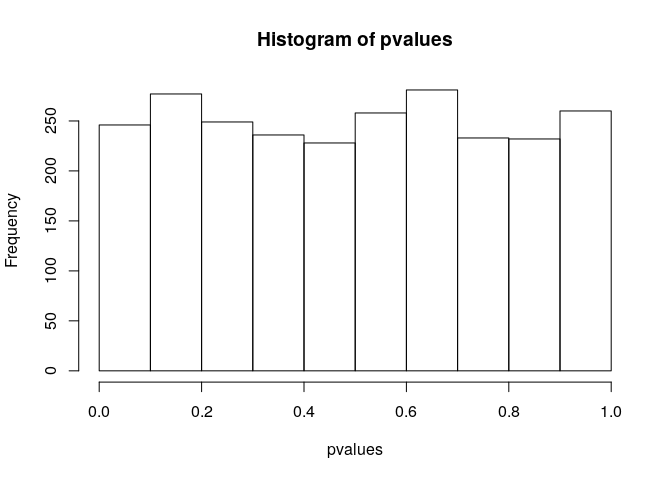
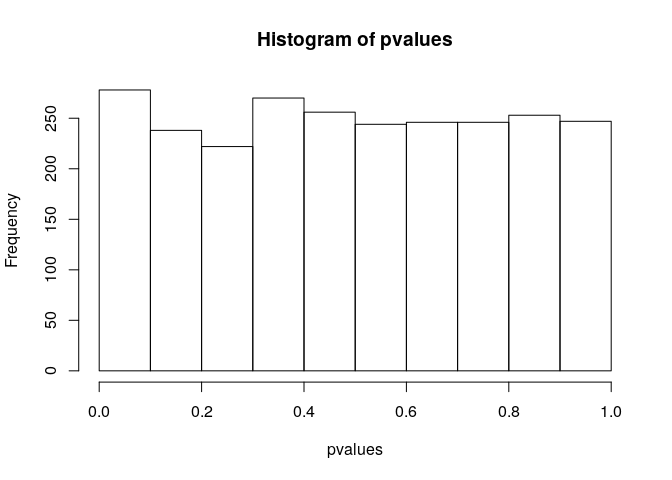
Small edits linalg

diff --git a/docs/lectures/linalg_basics.md b/docs/lectures/linalg_basics.md
@@ -43,23 +43,31 @@ Linear algebra is intimately tied to linear equations, that is, to equations whe
 The situation gets more interesting when multiple variables are involved, with multiple equations, for example:
 
 ![
-4x - 3y = 5 \\\\
- -x + 2y = 10
-](https://latex.codecogs.com/png.latex?%0A4x%20-%203y%20%3D%205%20%5C%5C%0A%20-x%20%2B%202y%20%3D%2010%0A "
-4x - 3y = 5 \\
- -x + 2y = 10
+\\begin{aligned}
+4x - 3y &= 5 \\\\
+ -x + 2y &= 10
+ \\end{aligned}
+](https://latex.codecogs.com/png.latex?%0A%5Cbegin%7Baligned%7D%0A4x%20-%203y%20%26%3D%205%20%5C%5C%0A%20-x%20%2B%202y%20%26%3D%2010%0A%20%5Cend%7Baligned%7D%0A "
+\begin{aligned}
+4x - 3y &= 5 \\
+ -x + 2y &= 10
+ \end{aligned}
 ")
 
 There are multiple ways to solve this, for example solving one equation for one variable in terms of the other, then substituting it into the second equation to obtain a one-variable problem. A more general approach involves writing this problem in terms of a matrix ![\\mathbf A](https://latex.codecogs.com/png.latex?%5Cmathbf%20A "\mathbf A") that contains the multiplicative constants of ![x](https://latex.codecogs.com/png.latex?x "x") and ![y](https://latex.codecogs.com/png.latex?y "y") and a vector ![\\vec b](https://latex.codecogs.com/png.latex?%5Cvec%20b "\vec b") that contains the right-hand side constants:
 
 ![
-\\mathbf{A} = \\begin{pmatrix} 4 & -3 \\\\ -1 & 2 \\end{pmatrix} \\; \\vec{b} = \\begin{pmatrix}5 \\\\ 10 \\end{pmatrix} \\;
+\\begin{aligned}
+\\mathbf{A} = \\begin{pmatrix} 4 & -3 \\\\ -1 & 2 \\end{pmatrix} \\;\\;\\; \\vec{b} = \\begin{pmatrix}5 \\\\ 10 \\end{pmatrix} &\\;\\;\\;
 \\vec{x} = \\begin{pmatrix} x \\\\ y \\end{pmatrix} \\\\
-\\mathbf{A} \\vec x = \\vec b
-](https://latex.codecogs.com/png.latex?%0A%5Cmathbf%7BA%7D%20%3D%20%5Cbegin%7Bpmatrix%7D%204%20%26%20-3%20%5C%5C%20-1%20%26%202%20%5Cend%7Bpmatrix%7D%20%5C%3B%20%5Cvec%7Bb%7D%20%3D%20%5Cbegin%7Bpmatrix%7D5%20%5C%5C%2010%20%5Cend%7Bpmatrix%7D%20%5C%3B%0A%5Cvec%7Bx%7D%20%3D%20%5Cbegin%7Bpmatrix%7D%20x%20%5C%5C%20y%20%5Cend%7Bpmatrix%7D%20%5C%5C%0A%5Cmathbf%7BA%7D%20%5Cvec%20x%20%3D%20%5Cvec%20b%0A "
-\mathbf{A} = \begin{pmatrix} 4 & -3 \\ -1 & 2 \end{pmatrix} \; \vec{b} = \begin{pmatrix}5 \\ 10 \end{pmatrix} \;
+\\mathbf{A} \\vec x = \\vec b &
+\\end{aligned}
+](https://latex.codecogs.com/png.latex?%0A%5Cbegin%7Baligned%7D%0A%5Cmathbf%7BA%7D%20%3D%20%5Cbegin%7Bpmatrix%7D%204%20%26%20-3%20%5C%5C%20-1%20%26%202%20%5Cend%7Bpmatrix%7D%20%5C%3B%5C%3B%5C%3B%20%5Cvec%7Bb%7D%20%3D%20%5Cbegin%7Bpmatrix%7D5%20%5C%5C%2010%20%5Cend%7Bpmatrix%7D%20%26%5C%3B%5C%3B%5C%3B%0A%5Cvec%7Bx%7D%20%3D%20%5Cbegin%7Bpmatrix%7D%20x%20%5C%5C%20y%20%5Cend%7Bpmatrix%7D%20%5C%5C%0A%5Cmathbf%7BA%7D%20%5Cvec%20x%20%3D%20%5Cvec%20b%20%26%0A%5Cend%7Baligned%7D%0A "
+\begin{aligned}
+\mathbf{A} = \begin{pmatrix} 4 & -3 \\ -1 & 2 \end{pmatrix} \;\;\; \vec{b} = \begin{pmatrix}5 \\ 10 \end{pmatrix} &\;\;\;
 \vec{x} = \begin{pmatrix} x \\ y \end{pmatrix} \\
-\mathbf{A} \vec x = \vec b
+\mathbf{A} \vec x = \vec b &
+\end{aligned}
 ")
 
  This now looks analogous to the one-variable equation above, which we solved by dividing both sides by the multiple of ![x](https://latex.codecogs.com/png.latex?x "x"). The difficulty is that matrix operations are more complicated than scalar multiplication and division. Matrix multiplication is used in the equation above to multiply all the coefficients in the matrix by their respective variables, which involves a relatively complicated [procedure in general](https://en.wikipedia.org/wiki/Matrix_multiplication).
@@ -67,9 +75,9 @@ There are multiple ways to solve this, for example solving one equation for one 
 The "division" equivalent is called [matrix inversion](https://en.wikipedia.org/wiki/Invertible_matrix) and it is even more complicated. First, we need to define the identity matrix, or the equivalent of the number 1 for matrix multiplication. The identity matrix is defined only for square matrices (equal number of rows and columns), so a size ![n](https://latex.codecogs.com/png.latex?n "n") by ![n](https://latex.codecogs.com/png.latex?n "n") idenitity matrix is define to have all 1s on the diagonal and all zeros on the off-diagonal:
 
 ![
-I = \\begin{pmatrix} 1 & 0 & \\dots & 0 \\\\ 0 & 1  &\\dots & 0 \\\\ \\vdots & \\vdots & & \\vdots \\\\ 0 & 0 &\\dots & 1\\end{pmatrix}
-](https://latex.codecogs.com/png.latex?%0AI%20%3D%20%5Cbegin%7Bpmatrix%7D%201%20%26%200%20%26%20%5Cdots%20%26%200%20%5C%5C%200%20%26%201%20%20%26%5Cdots%20%26%200%20%5C%5C%20%5Cvdots%20%26%20%5Cvdots%20%26%20%26%20%5Cvdots%20%5C%5C%200%20%26%200%20%26%5Cdots%20%26%201%5Cend%7Bpmatrix%7D%0A "
-I = \begin{pmatrix} 1 & 0 & \dots & 0 \\ 0 & 1  &\dots & 0 \\ \vdots & \vdots & & \vdots \\ 0 & 0 &\dots & 1\end{pmatrix}
+I = \\begin{pmatrix} 1 & 0 & \\dots & 0 \\\\ 0 & 1  &\\dots & 0 \\\\ \\vdots & \\vdots & \\ddots & \\vdots \\\\ 0 & 0 &\\dots & 1\\end{pmatrix}
+](https://latex.codecogs.com/png.latex?%0AI%20%3D%20%5Cbegin%7Bpmatrix%7D%201%20%26%200%20%26%20%5Cdots%20%26%200%20%5C%5C%200%20%26%201%20%20%26%5Cdots%20%26%200%20%5C%5C%20%5Cvdots%20%26%20%5Cvdots%20%26%20%5Cddots%20%26%20%5Cvdots%20%5C%5C%200%20%26%200%20%26%5Cdots%20%26%201%5Cend%7Bpmatrix%7D%0A "
+I = \begin{pmatrix} 1 & 0 & \dots & 0 \\ 0 & 1  &\dots & 0 \\ \vdots & \vdots & \ddots & \vdots \\ 0 & 0 &\dots & 1\end{pmatrix}
 ")
 
  The identity matrix is special because multiplying any other matrix (of compatible size) by it results in the same exact matrix (this is easy to check on a couple of examples for 2 by 2 or 3 by 3 matrices):
@@ -102,7 +110,7 @@ In the cases in which the inverse matrix exists, the linear system of equations 
 
 ``` r
 A <- matrix(c(4,-1,-3,2), nrow = 2)
-b = c(5,10)
+b <- c(5,10)
 solve(A,b)
 ```
 
@@ -116,11 +124,15 @@ One geometric application of solving multiple linear equations is to find the co
 **Example:** If the data set consists of two points ![(3,5), (6, 2)](https://latex.codecogs.com/png.latex?%283%2C5%29%2C%20%286%2C%202%29 "(3,5), (6, 2)"), then finding the best fit values of ![m](https://latex.codecogs.com/png.latex?m "m") and ![b](https://latex.codecogs.com/png.latex?b "b") means solving the following two equations:
 
 ![
- 3m + b = 5 \\\\
- 6m + b = 2
-](https://latex.codecogs.com/png.latex?%0A%203m%20%2B%20b%20%3D%205%20%5C%5C%0A%206m%20%2B%20b%20%3D%202%0A "
- 3m + b = 5 \\
- 6m + b = 2
+\\begin{aligned}
+ 3m + b &= 5 \\\\
+ 6m + b &= 2
+\\end{aligned}
+](https://latex.codecogs.com/png.latex?%0A%5Cbegin%7Baligned%7D%0A%203m%20%2B%20b%20%26%3D%205%20%5C%5C%0A%206m%20%2B%20b%20%26%3D%202%0A%5Cend%7Baligned%7D%0A "
+\begin{aligned}
+ 3m + b &= 5 \\
+ 6m + b &= 2
+\end{aligned}
 ")
 
 These equations have a solution for the slope and intercept, which can be calculated in R using solve() and then plot the line witht e
@@ -142,13 +154,17 @@ However, a data set with two points is very small and nobody would accept these 
 **Bad idea:** take two points and find a line, that is the slope and the intercept, that passes through the two. It should be clear why this is a bad idea: we are arbitrarily ignoring some of the data, while perfectly fitting two points. So how do we use all the data? Let us write down the equations that a line with slope ![m](https://latex.codecogs.com/png.latex?m "m") and intercept ![b](https://latex.codecogs.com/png.latex?b "b") have to satisfy in order to fit our data points:
 
 ![
+\\begin{aligned}
 3m + b = 5 \\\\
 6m + b = 2\\\\
 9m + b = 1
-](https://latex.codecogs.com/png.latex?%0A3m%20%2B%20b%20%3D%205%20%5C%5C%0A6m%20%2B%20b%20%3D%202%5C%5C%0A9m%20%2B%20b%20%3D%201%0A "
+\\end{aligned}
+](https://latex.codecogs.com/png.latex?%0A%5Cbegin%7Baligned%7D%0A3m%20%2B%20b%20%3D%205%20%5C%5C%0A6m%20%2B%20b%20%3D%202%5C%5C%0A9m%20%2B%20b%20%3D%201%0A%5Cend%7Baligned%7D%0A "
+\begin{aligned}
 3m + b = 5 \\
 6m + b = 2\\
 9m + b = 1
+\end{aligned}
 ")
 
 This system has no exact solution, since there are three equations and only two unknowns. We need to find ![m](https://latex.codecogs.com/png.latex?m "m") and ![b](https://latex.codecogs.com/png.latex?b "b") such that they are a "best fit" to the data, not the perfect solution.
@@ -159,13 +175,17 @@ Least-squares line
 Let us write the equation in matrix form as follows:
 
 ![
-\\mathbf{A} = \\begin{pmatrix} 3 & 1 \\\\ 6 & 1 \\\\ 9 & 1 \\end{pmatrix} \\; \\vec{b} = \\begin{pmatrix}5 \\\\ 2 \\\\ 1 \\end{pmatrix} \\;
-\\vec{\\beta} = \\begin{pmatrix} m \\\\ b \\end{pmatrix} \\\\
-\\mathbf{A} \\vec \\beta = \\vec b
-](https://latex.codecogs.com/png.latex?%0A%5Cmathbf%7BA%7D%20%3D%20%5Cbegin%7Bpmatrix%7D%203%20%26%201%20%5C%5C%206%20%26%201%20%5C%5C%209%20%26%201%20%5Cend%7Bpmatrix%7D%20%5C%3B%20%5Cvec%7Bb%7D%20%3D%20%5Cbegin%7Bpmatrix%7D5%20%5C%5C%202%20%5C%5C%201%20%5Cend%7Bpmatrix%7D%20%5C%3B%0A%5Cvec%7B%5Cbeta%7D%20%3D%20%5Cbegin%7Bpmatrix%7D%20m%20%5C%5C%20b%20%5Cend%7Bpmatrix%7D%20%5C%5C%0A%5Cmathbf%7BA%7D%20%5Cvec%20%5Cbeta%20%3D%20%5Cvec%20b%0A "
-\mathbf{A} = \begin{pmatrix} 3 & 1 \\ 6 & 1 \\ 9 & 1 \end{pmatrix} \; \vec{b} = \begin{pmatrix}5 \\ 2 \\ 1 \end{pmatrix} \;
-\vec{\beta} = \begin{pmatrix} m \\ b \end{pmatrix} \\
-\mathbf{A} \vec \beta = \vec b
+\\begin{aligned}
+\\mathbf{A} = \\begin{pmatrix} 3 & 1 \\\\ 6 & 1 \\\\ 9 & 1 \\end{pmatrix} \\;\\;\\; \\vec{b} = \\begin{pmatrix}5 \\\\ 2 \\\\ 1 \\end{pmatrix} \\;\\;\\;
+\\vec{\\beta} = \\begin{pmatrix} m \\\\ b \\end{pmatrix} & \\\\
+\\mathbf{A} \\vec \\beta = \\vec b &
+\\end{aligned}
+](https://latex.codecogs.com/png.latex?%0A%5Cbegin%7Baligned%7D%0A%5Cmathbf%7BA%7D%20%3D%20%5Cbegin%7Bpmatrix%7D%203%20%26%201%20%5C%5C%206%20%26%201%20%5C%5C%209%20%26%201%20%5Cend%7Bpmatrix%7D%20%5C%3B%5C%3B%5C%3B%20%5Cvec%7Bb%7D%20%3D%20%5Cbegin%7Bpmatrix%7D5%20%5C%5C%202%20%5C%5C%201%20%5Cend%7Bpmatrix%7D%20%5C%3B%5C%3B%5C%3B%0A%5Cvec%7B%5Cbeta%7D%20%3D%20%5Cbegin%7Bpmatrix%7D%20m%20%5C%5C%20b%20%5Cend%7Bpmatrix%7D%20%26%20%5C%5C%0A%5Cmathbf%7BA%7D%20%5Cvec%20%5Cbeta%20%3D%20%5Cvec%20b%20%26%0A%5Cend%7Baligned%7D%0A "
+\begin{aligned}
+\mathbf{A} = \begin{pmatrix} 3 & 1 \\ 6 & 1 \\ 9 & 1 \end{pmatrix} \;\;\; \vec{b} = \begin{pmatrix}5 \\ 2 \\ 1 \end{pmatrix} \;\;\;
+\vec{\beta} = \begin{pmatrix} m \\ b \end{pmatrix} & \\
+\mathbf{A} \vec \beta = \vec b &
+\end{aligned}
 ")
 
 Mathematically, the problem is that one cannot invert a non-square matrix. However, there is a way of turning the matrix into a square one, by multiplying it by its own transpose (same matrix with rows and columns reversed):
@@ -424,7 +444,7 @@ The situation with eigenvectors is trickier. There are some matrices for which a
 
 To summarize, eigenvalues and eigenvectors of a matrix are a set of numbers and a set of vectors (up to scalar multiple) that describe the action of the matrix as a multiplicative operator on vectors. “Well-behaved” square ![n](https://latex.codecogs.com/png.latex?n "n") by ![n](https://latex.codecogs.com/png.latex?n "n") matrices have ![n](https://latex.codecogs.com/png.latex?n "n") distinct eigenvalues and ![n](https://latex.codecogs.com/png.latex?n "n") eigenvectors pointing in distinct directions. In a deep sense, the collection of eigenvectors and eigenvalues defines a matrix ![A](https://latex.codecogs.com/png.latex?A "A"), which is why an older name for them is characteristic vectors and values.
 
-### calculating eigenvalues
+### Calculating eigenvalues
 
 Finding the eigenvalues and eigenvectors analytically, that is on paper, is quite laborious even for 3 by 3 or 4 by 4 matrices and for larger ones there is no analytical solution. In practice, the task is outsourced to a computer, and MATLAB has a number of functions for this purpose. Nevertheless, it is useful to go through the process in 2 dimensions in order to gain an understanding of what is involved. From the definition of eigenvalues and eigenvectors, the condition can be written in terms of the four elements of a 2 by 2 matrix:
 
@@ -480,4 +500,4 @@ eigs$vectors
     # [1,] -0.4472136 -0.7071068
     # [2,] -0.8944272  0.7071068
 
-Note: a real-valued matrix can have complex eigenvalues and eigenvectors, but whenever it acts on a real vector, the result is still real. This is because the complex numbers cancel each other’s imaginary parts.
+**Note:** a real-valued matrix can have complex eigenvalues and eigenvectors, but whenever it acts on a real vector, the result is still real. This is because the complex numbers cancel each other’s imaginary parts.

diff --git a/docs/lectures/hypothesis_testing.md b/docs/lectures/hypothesis_testing.md
@@ -98,13 +98,13 @@ t.test(my_sample$sample1,
     #   Two Sample t-test
     # 
     # data:  my_sample$sample1 and my_sample$sample2
-    # t = 0.3386, df = 1998, p-value = 0.7349
+    # t = -0.79499, df = 1998, p-value = 0.4267
     # alternative hypothesis: true difference in means is not equal to 0
     # 95 percent confidence interval:
-    #  -0.07074067  0.10026551
+    #  -0.12485572  0.05282789
     # sample estimates:
     # mean of x mean of y 
-    #  1.032537  1.017775
+    #  1.015847  1.051861
 
 **Exercise:** Can you detect a "significant difference in means" (assuming ![\\alpha = 0.05](https://latex.codecogs.com/png.latex?%5Calpha%20%3D%200.05 "\alpha = 0.05"))? What if you take a much larger sample? What if the difference in means is more pronounced?
 
@@ -136,7 +136,7 @@ How many times do we detect a "significant difference in reflectance" when setti
 sum(pvalues < 0.05)
 ```
 
-    # [1] 117
+    # [1] 136
 
 You should get a number of "significant" tests that is about ![2500 \\cdot 0.05 = 125](https://latex.codecogs.com/png.latex?2500%20%5Ccdot%200.05%20%3D%20125 "2500 \cdot 0.05 = 125"). In fact, the distribution of p-values when the data are sampled from the null hypothesis is approximately uniform:
 
